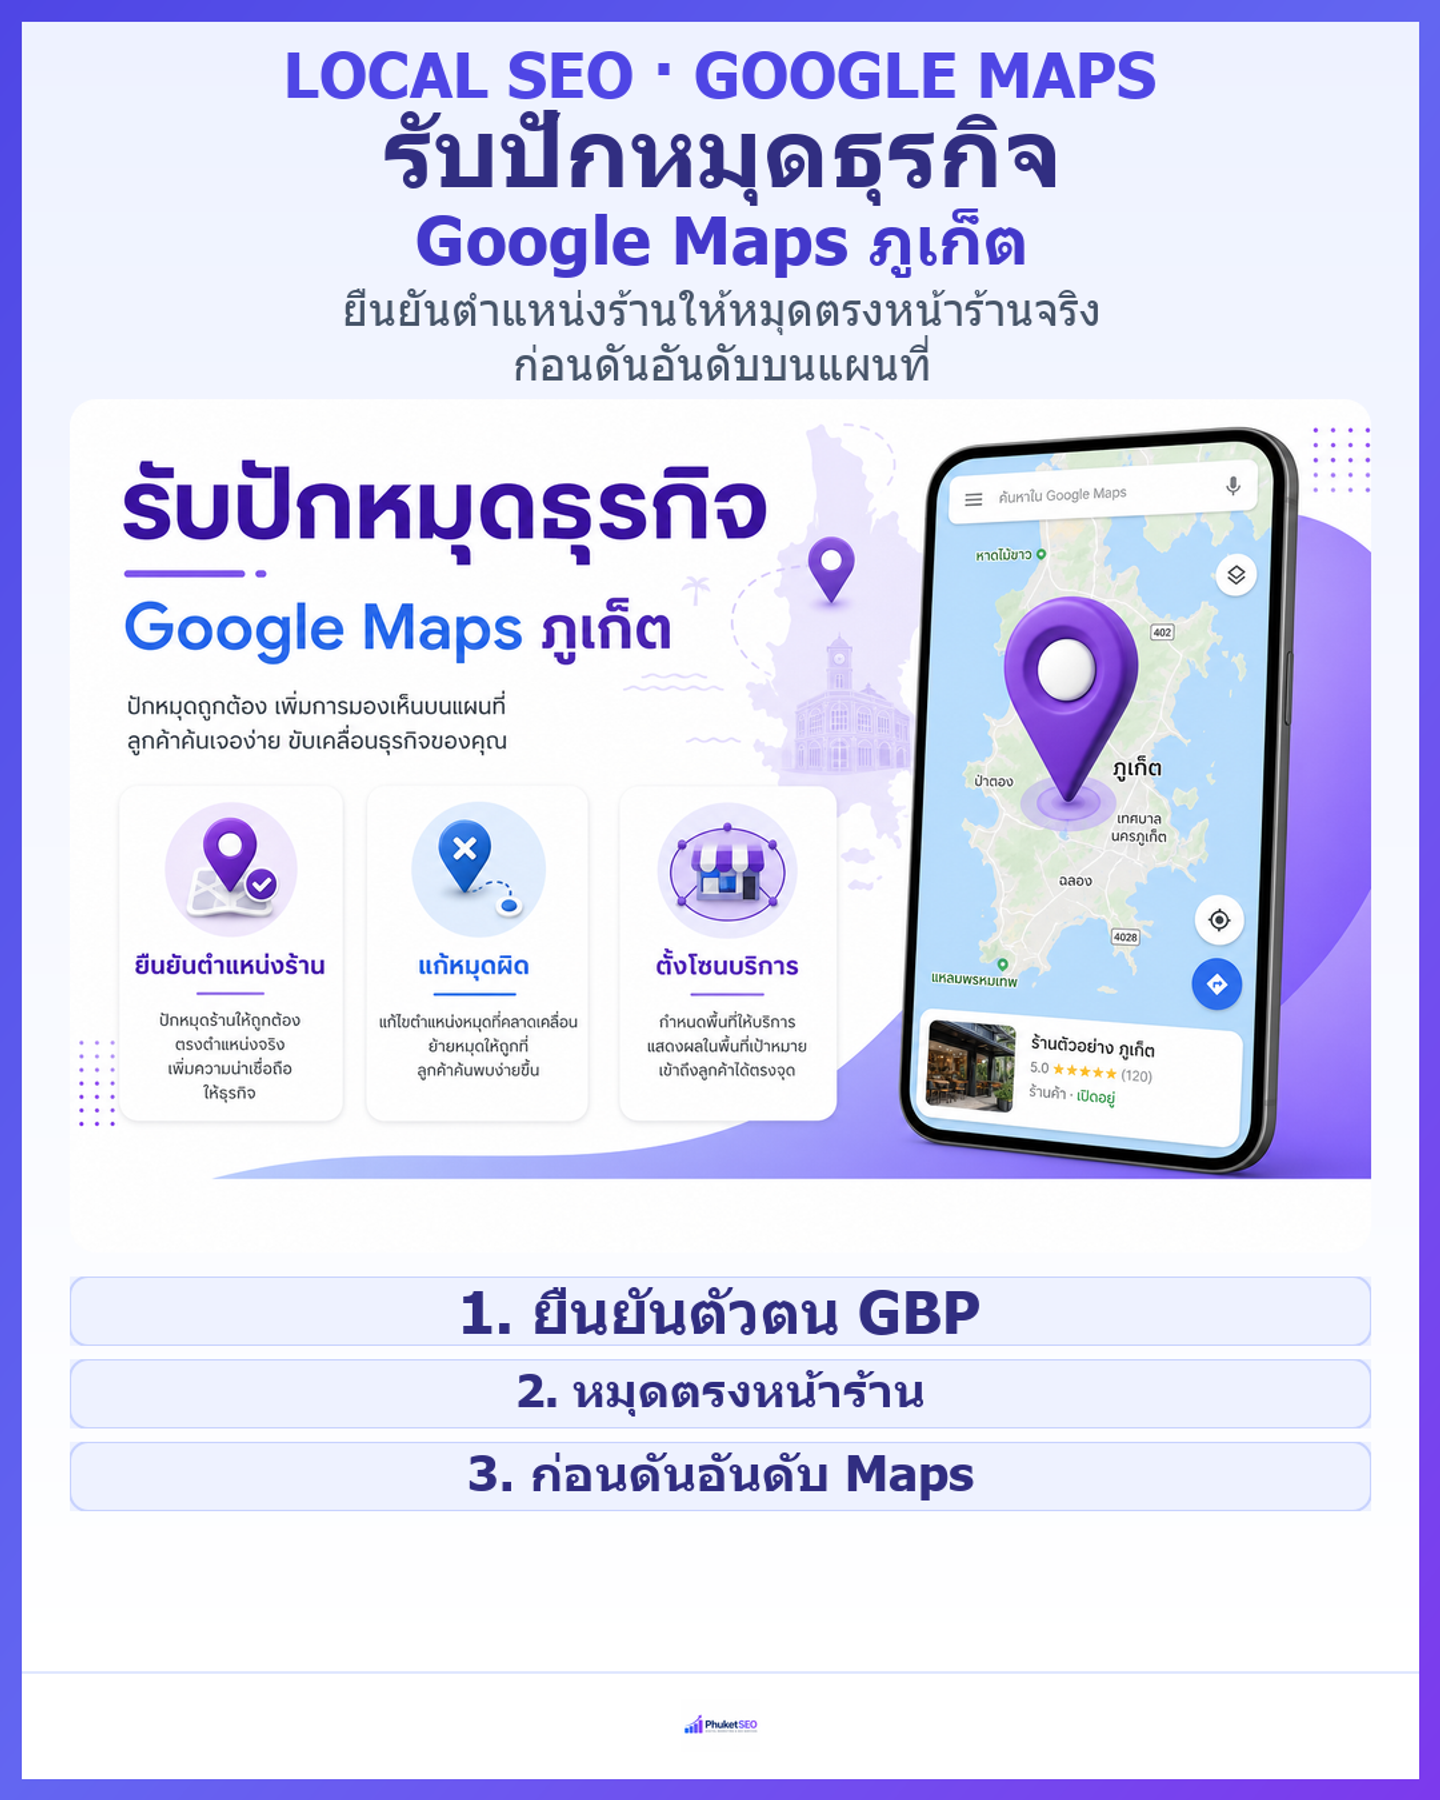
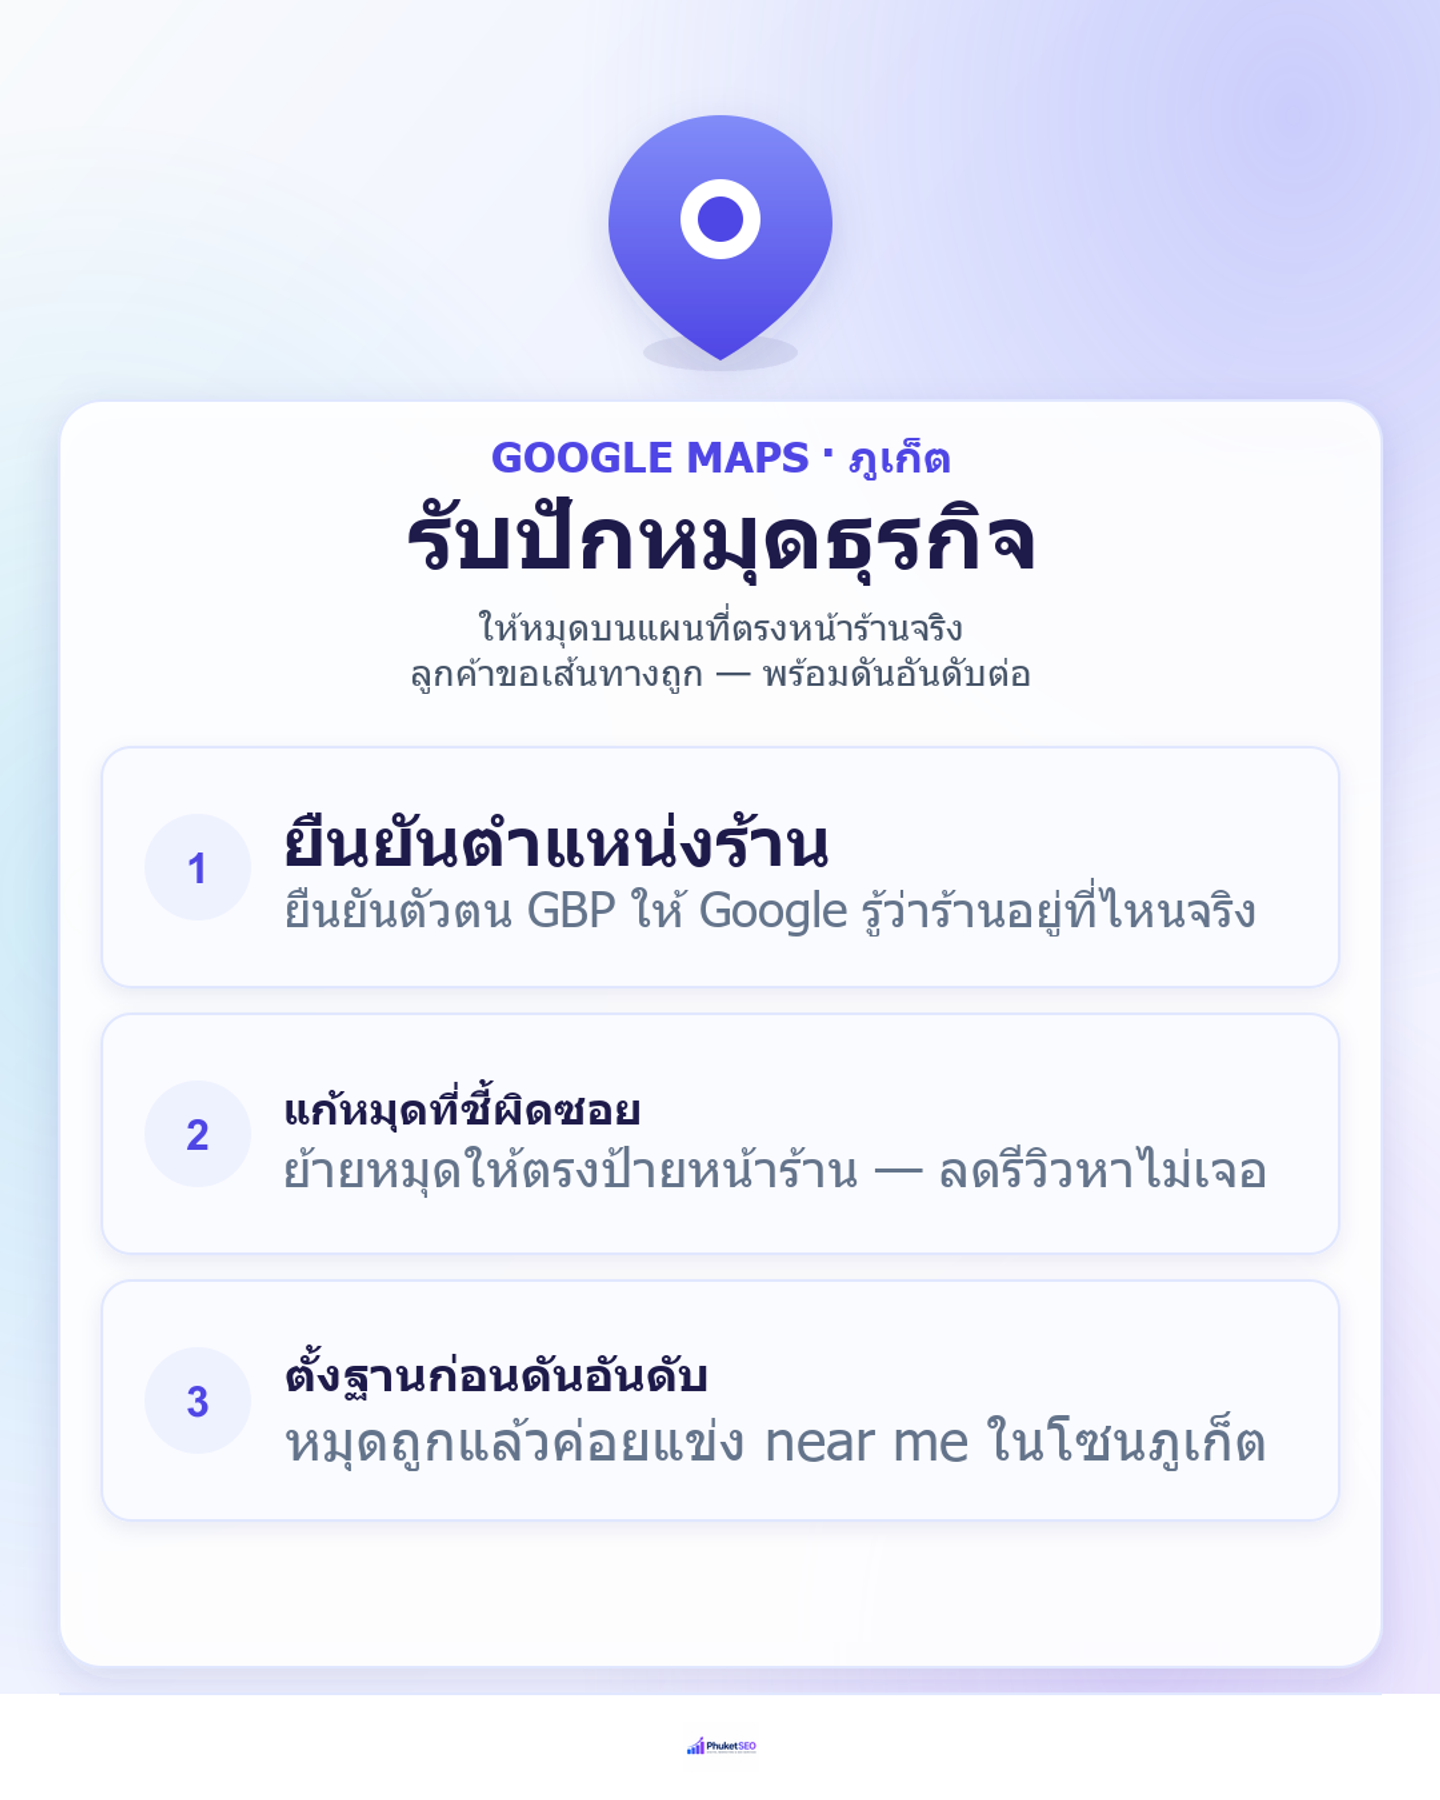
Redesign Maps pin Facebook 4:5 creative as original social graphic.
Replace cut-paste article overlay with a standalone Meta post layout: pin hero, one headline, three benefit cards, and brand footer.

diff --git a/src/lib/images.ts b/src/lib/images.ts
@@ -908,7 +908,7 @@ export const siteImages = {
       height: 1800,
       layout: "portrait",
       ratio: "4:5",
-      rev: 1,
+      rev: 2,
     },
     mapsPinWrong: {
       src: "/images/blog/blog-inline-rap-pak-mut-thurakij-phuket-wrong-clean.png",